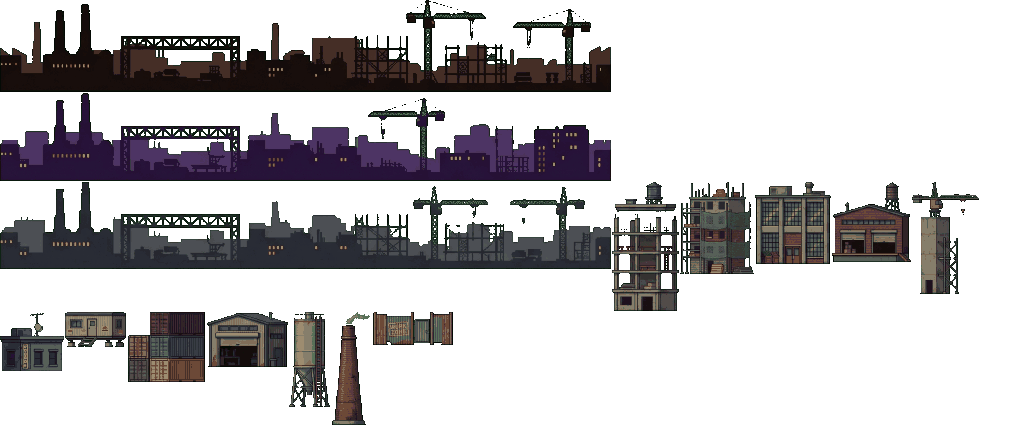
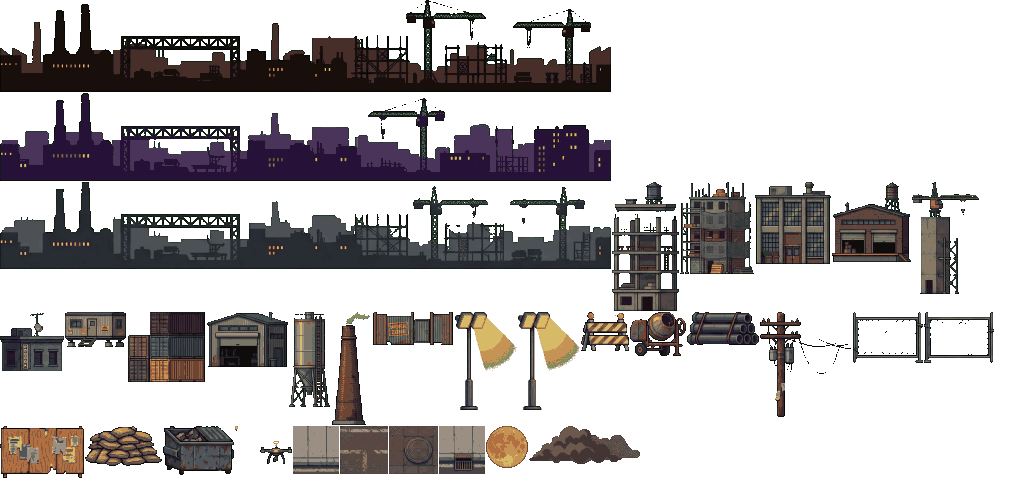
feat(décors) : mobilier, lune, nuage et drones pour l'ambiance chantier
Planche B du thème 4 régénérée avec Gemini (projecteurs, barrières, bétonnière, tuyaux, poteau,
clôtures, palissade, sacs de sable, benne, drones, tuiles) ; lune et nuage repris de l'ancienne planche.
Web uniquement : Android inchangé.

diff --git a/assets/bg/theme4.js b/assets/bg/theme4.js
@@ -91,6 +91,114 @@ export default {
    "y": 312,
    "w": 82,
    "h": 33
+  },
+  "flood.0": {
+   "x": 455,
+   "y": 312,
+   "w": 62,
+   "h": 98
+  },
+  "flood.1": {
+   "x": 518,
+   "y": 312,
+   "w": 62,
+   "h": 98
+  },
+  "barrier": {
+   "x": 581,
+   "y": 312,
+   "w": 48,
+   "h": 39
+  },
+  "mixer": {
+   "x": 630,
+   "y": 312,
+   "w": 56,
+   "h": 44
+  },
+  "pipes": {
+   "x": 687,
+   "y": 312,
+   "w": 72,
+   "h": 33
+  },
+  "pole": {
+   "x": 760,
+   "y": 312,
+   "w": 92,
+   "h": 105
+  },
+  "fence.0": {
+   "x": 853,
+   "y": 312,
+   "w": 70,
+   "h": 51
+  },
+  "fence.1": {
+   "x": 924,
+   "y": 312,
+   "w": 70,
+   "h": 51
+  },
+  "boarding": {
+   "x": 0,
+   "y": 426,
+   "w": 84,
+   "h": 52
+  },
+  "sandbags": {
+   "x": 85,
+   "y": 426,
+   "w": 77,
+   "h": 40
+  },
+  "dumpster": {
+   "x": 163,
+   "y": 426,
+   "w": 71,
+   "h": 49
+  },
+  "drones": {
+   "x": 235,
+   "y": 426,
+   "w": 57,
+   "h": 38
+  },
+  "tile.0": {
+   "x": 293,
+   "y": 426,
+   "w": 46,
+   "h": 48
+  },
+  "tile.1": {
+   "x": 340,
+   "y": 426,
+   "w": 48,
+   "h": 48
+  },
+  "tile.2": {
+   "x": 389,
+   "y": 426,
+   "w": 49,
+   "h": 48
+  },
+  "tile.3": {
+   "x": 439,
+   "y": 426,
+   "w": 46,
+   "h": 48
+  },
+  "moon": {
+   "x": 486,
+   "y": 426,
+   "w": 42,
+   "h": 42
+  },
+  "cloud.0": {
+   "x": 529,
+   "y": 426,
+   "w": 111,
+   "h": 38
   }
  }
 };

diff --git a/src/render/decor.js b/src/render/decor.js
@@ -56,14 +56,18 @@ const AMBIANCES = {
     lune: 'moon',
     nuages: ['cloud.0', 'cloud.1', 'lantern.1', 'lantern.3', 'lantern.0'],
   },
-  // Planches B (mobilier, lune, nuages) à régénérer pour ces deux ambiances : couches vides.
+  // Cyber : planche B (mobilier, lune, nuages) à régénérer, couches vides pour l'instant.
   chantier: {
     atlas: BG_THEME4,
     skyline: ['sky.0', 'sky.1', 'sky.2'],
     facades: ['frame', 'frame', 'scaffold', 'scaffold', 'factory', 'factory', 'warehouse', 'warehouse',
       'cranetower', 'cranetower', 'office', 'cabin', 'containers', 'containers', 'workshop', 'silo',
       'chimney', 'hoarding'],
-    mobilier: [], lumineux: [], lune: null, nuages: [],
+    mobilier: ['flood.0', 'barrier', 'mixer', 'fence.0', 'pipes', 'pole', 'sandbags', 'flood.1', 'fence.1',
+      'dumpster', 'boarding', 'barrier', 'pole'],
+    lumineux: ['flood.0', 'flood.1'],
+    lune: 'moon',
+    nuages: ['cloud.0', 'drones'],
   },
   cyber: {
     atlas: BG_THEME5,

diff --git a/tools/slice_bg.py b/tools/slice_bg.py
@@ -29,7 +29,7 @@ SEUIL_ALPHA = 0.5     # après réduction : un pixel est opaque au-delà de ce t
 # `classe` pilote l'échelle : sky = bandes de skyline, bld = bâtiments, prop = accessoires,
 # ciel = lune/nuages, vol = chauves-souris/oiseaux, sol = tuiles de sol.
 ECHELLES = {'sky': 0.40, 'bld': 0.22, 'prop': 0.20, 'ciel': 0.22, 'vol': 0.12, 'sol': 0.17}
-DOUX = {'lamp.0', 'lamp.1', 'lamp.2', 'heart.0', 'heart.1'}   # halos de lumière : alpha conservé sur 4 niveaux
+DOUX = {'lamp.0', 'lamp.1', 'lamp.2', 'flood.0', 'flood.1', 'heart.0', 'heart.1'}   # halos de lumière : alpha conservé sur 4 niveaux
 
 
 def sk(prefix, indices, cls='sky'):
@@ -116,6 +116,25 @@ THEMES = {
              + bld(('frame', 'scaffold', 'factory', 'warehouse', 'cranetower', 'office',
                     'cabin', 'containers', 'workshop', 'silo', 'chimney', 'hoarding'),
                    (11, 12, 13, 14, 15, 10, 16, 18, 19, 20, 21, 23))},
+            # Planche B régénérée le 01/11 : accessoires propres, drones, tuiles. Clôtures et palissade se touchent
+            # (objet n° 6) : découpées par `clip`. La lune et les nuages viennent de l'ancienne planche B (n° 8, 7, 13),
+            # la nouvelle ayant un halo verdâtre autour de la lune.
+            {'fichier': 'atlas/theme4/Gemini_Generated_Image_7sat8q7sat8q7sat.jpeg',
+             'objets': [
+                 {'n': 'flood.0', 'i': 0, 'cls': 'prop'}, {'n': 'flood.1', 'i': 1, 'cls': 'prop'},
+                 {'n': 'barrier', 'i': 2, 'cls': 'prop'}, {'n': 'mixer', 'i': 3, 'cls': 'prop'},
+                 {'n': 'pipes', 'i': 4, 'cls': 'prop'}, {'n': 'pole', 'i': 5, 'cls': 'prop'},
+                 {'n': 'fence.0', 'i': 6, 'cls': 'prop', 'clip': (0, 0, 404, 4096)},
+                 {'n': 'fence.1', 'i': 6, 'cls': 'prop', 'clip': (404, 0, 752, 4096)},
+                 {'n': 'boarding', 'i': 6, 'cls': 'prop', 'clip': (752, 0, 4096, 4096)},
+                 {'n': 'sandbags', 'i': 7, 'cls': 'prop'}, {'n': 'dumpster', 'i': 8, 'cls': 'prop'},
+                 {'n': 'drones', 'i': 17, 'cls': 'vol', 'e': 0.2},
+             ] + [{'n': 'tile.%d' % k, 'i': 20 + k, 'cls': 'sol', 'e': 0.10} for k in range(4)]},
+            {'fichier': 'atlas/theme4/Gemini_Generated_Image_u6zkaju6zkaju6zk.jpeg',
+             'objets': [
+                 {'n': 'moon', 'i': 8, 'cls': 'ciel'},
+                 {'n': 'cloud.0', 'i': 7, 'cls': 'ciel'},   # le nuage n° 13 a une tache verte : écarté
+             ]},
         ],
     },
     # Quartier cyber arcade. Planche B inutilisable (skyline fantôme derrière les props) : à régénérer.
